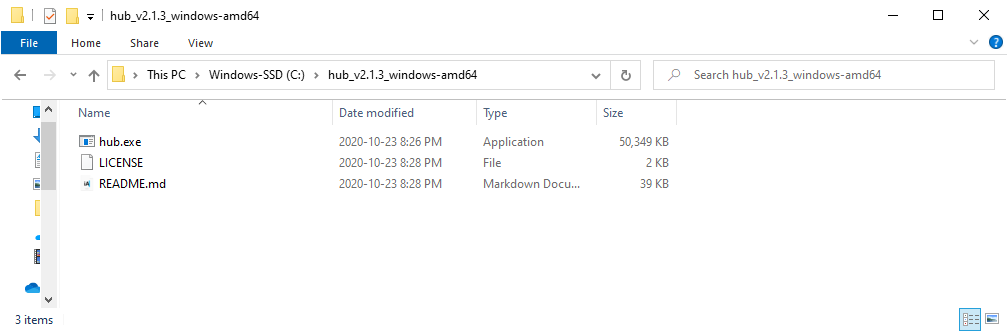
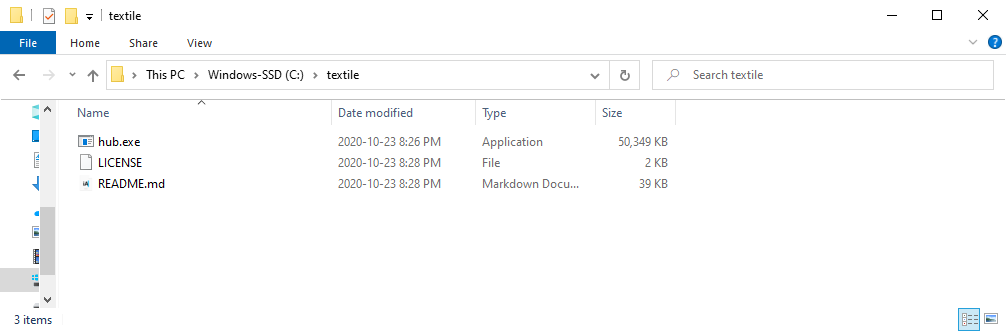
Updated folder location for windows textile install guide

diff --git a/docs/hub/accounts.md b/docs/hub/accounts.md
@@ -54,7 +54,7 @@ Another option is to add `hub.exe` to the PATH environment variable to access th
 
 ### Adding hub.exe to the Path Environment Variable
 
-Place the hub folder in an accessible location like the `C:\` directory.
+Rename the directory and place it in an accessible location like the `C:\` directory.
 
 ![Location of hub.exe](../images/install/windows_hub_directory.png)
 
